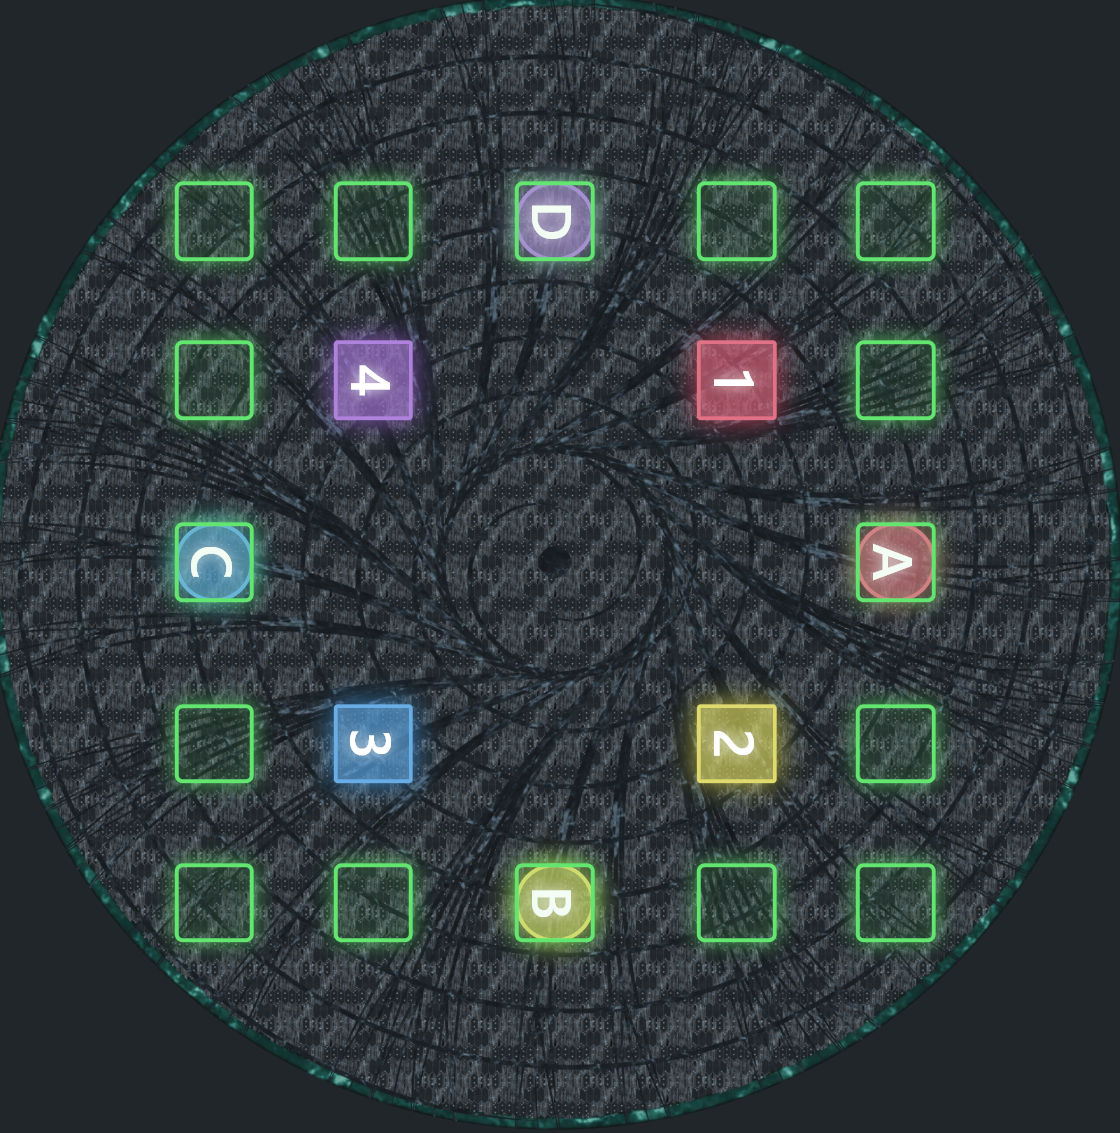
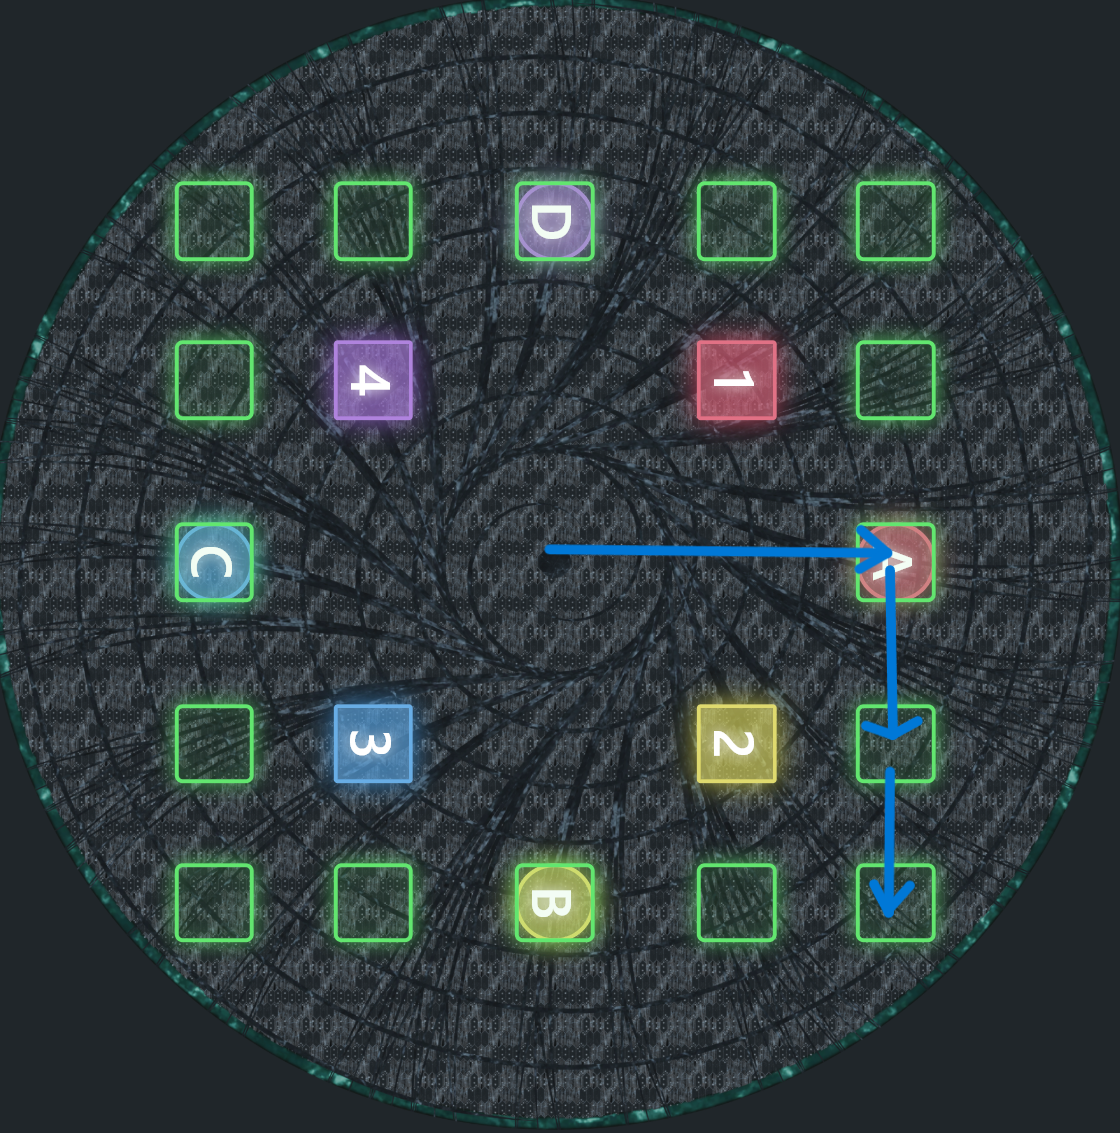
Update guide text and pictures

Changed region(s): [[0.4688, 0.4634, 0.8438, 0.6487], [0.7812, 0.6796, 0.8125, 0.8032]]

diff --git a/FF14/DMU/Phase1/BigBoxArrowsGuide/index.html b/FF14/DMU/Phase1/BigBoxArrowsGuide/index.html
@@ -39,7 +39,6 @@
             >
           </div>
           <div class="guide-step-copy">
-            <span class="guide-step-label">Arena</span>
             <p>Face camera at D.</p>
           </div>
         </li>
@@ -52,7 +51,6 @@
             >
           </div>
           <div class="guide-step-copy">
-            <span class="guide-step-label">Arena</span>
             <p>Picture a clockwise loop around the arena.</p>
           </div>
         </li>
@@ -69,10 +67,11 @@
             >
           </div>
           <div class="guide-step-copy">
-            <span class="guide-step-label">Arrows and Arena</span>
             <p>
-              Look at the first arrow, figure out if your debuffs are left or
-              right justified, then go to that cardinal.
+              Look at the first arrow, then go to that cardinal. <b>Important:</b> Figure 
+              out if your debuffs are left or right justified. The rest of this 
+              guide will assume debuffs are left justified meaning the "first arrow" 
+              is on the left.
             </p>
           </div>
         </li>
@@ -85,7 +84,6 @@
             >
           </div>
           <div class="guide-step-copy">
-            <span class="guide-step-label">Arrows</span>
             <p>Look to see if you have the same arrows or different arrows.</p>
           </div>
         </li>
@@ -102,10 +100,9 @@
             >
           </div>
           <div class="guide-step-copy">
-            <span class="guide-step-label">Arrows and Arena</span>
             <p>
-              If same, stay on the cardinal to drop the first arrow. Then move
-              counter clockwise to drop the second arrow.
+              If your arrows are the same, stay at the cardinal to drop the 
+              first arrow. Then move <b>counter clockwise</b> to drop the second arrow.
             </p>
           </div>
         </li>
@@ -118,8 +115,9 @@
             >
           </div>
           <div class="guide-step-copy">
-            <span class="guide-step-label">Arrows</span>
-            <p>If the arrows are different, check the timer on the first arrow.</p>
+            <p>If the arrows are different, check the timer on the first arrow. 
+              (Diagram assumes left-justified debuffs.)
+            </p>
           </div>
         </li>
 
@@ -135,9 +133,8 @@
             >
           </div>
           <div class="guide-step-copy">
-            <span class="guide-step-label">Arrows and Arena</span>
             <p>
-              If the first arrow is the short timer, move clockwise to drop
+              If the first arrow has the short timer, move <b>clockwise</b> to drop
               arrow one spot away from the cardinal. Then drop the arrow in the
               corner.
             </p>
@@ -156,9 +153,8 @@
             >
           </div>
           <div class="guide-step-copy">
-            <span class="guide-step-label">Arrows and Arena</span>
             <p>
-              If the first arrow has the long timer, move clockwise to the
+              If the first arrow has the long timer, move <b>clockwise</b> to the
               corner of the big box to drop the first arrow and then go back
               towards the cardinal to drop the second arrow.
             </p>

diff --git a/FF14/DMU/Phase1/BigBoxArrowsGuide/guide.css b/FF14/DMU/Phase1/BigBoxArrowsGuide/guide.css
@@ -93,6 +93,7 @@
 
 .guide-step-media-pair {
   grid-template-columns: 0.75fr 1fr;
+  align-items: center;
 }
 
 .guide-step-copy {
